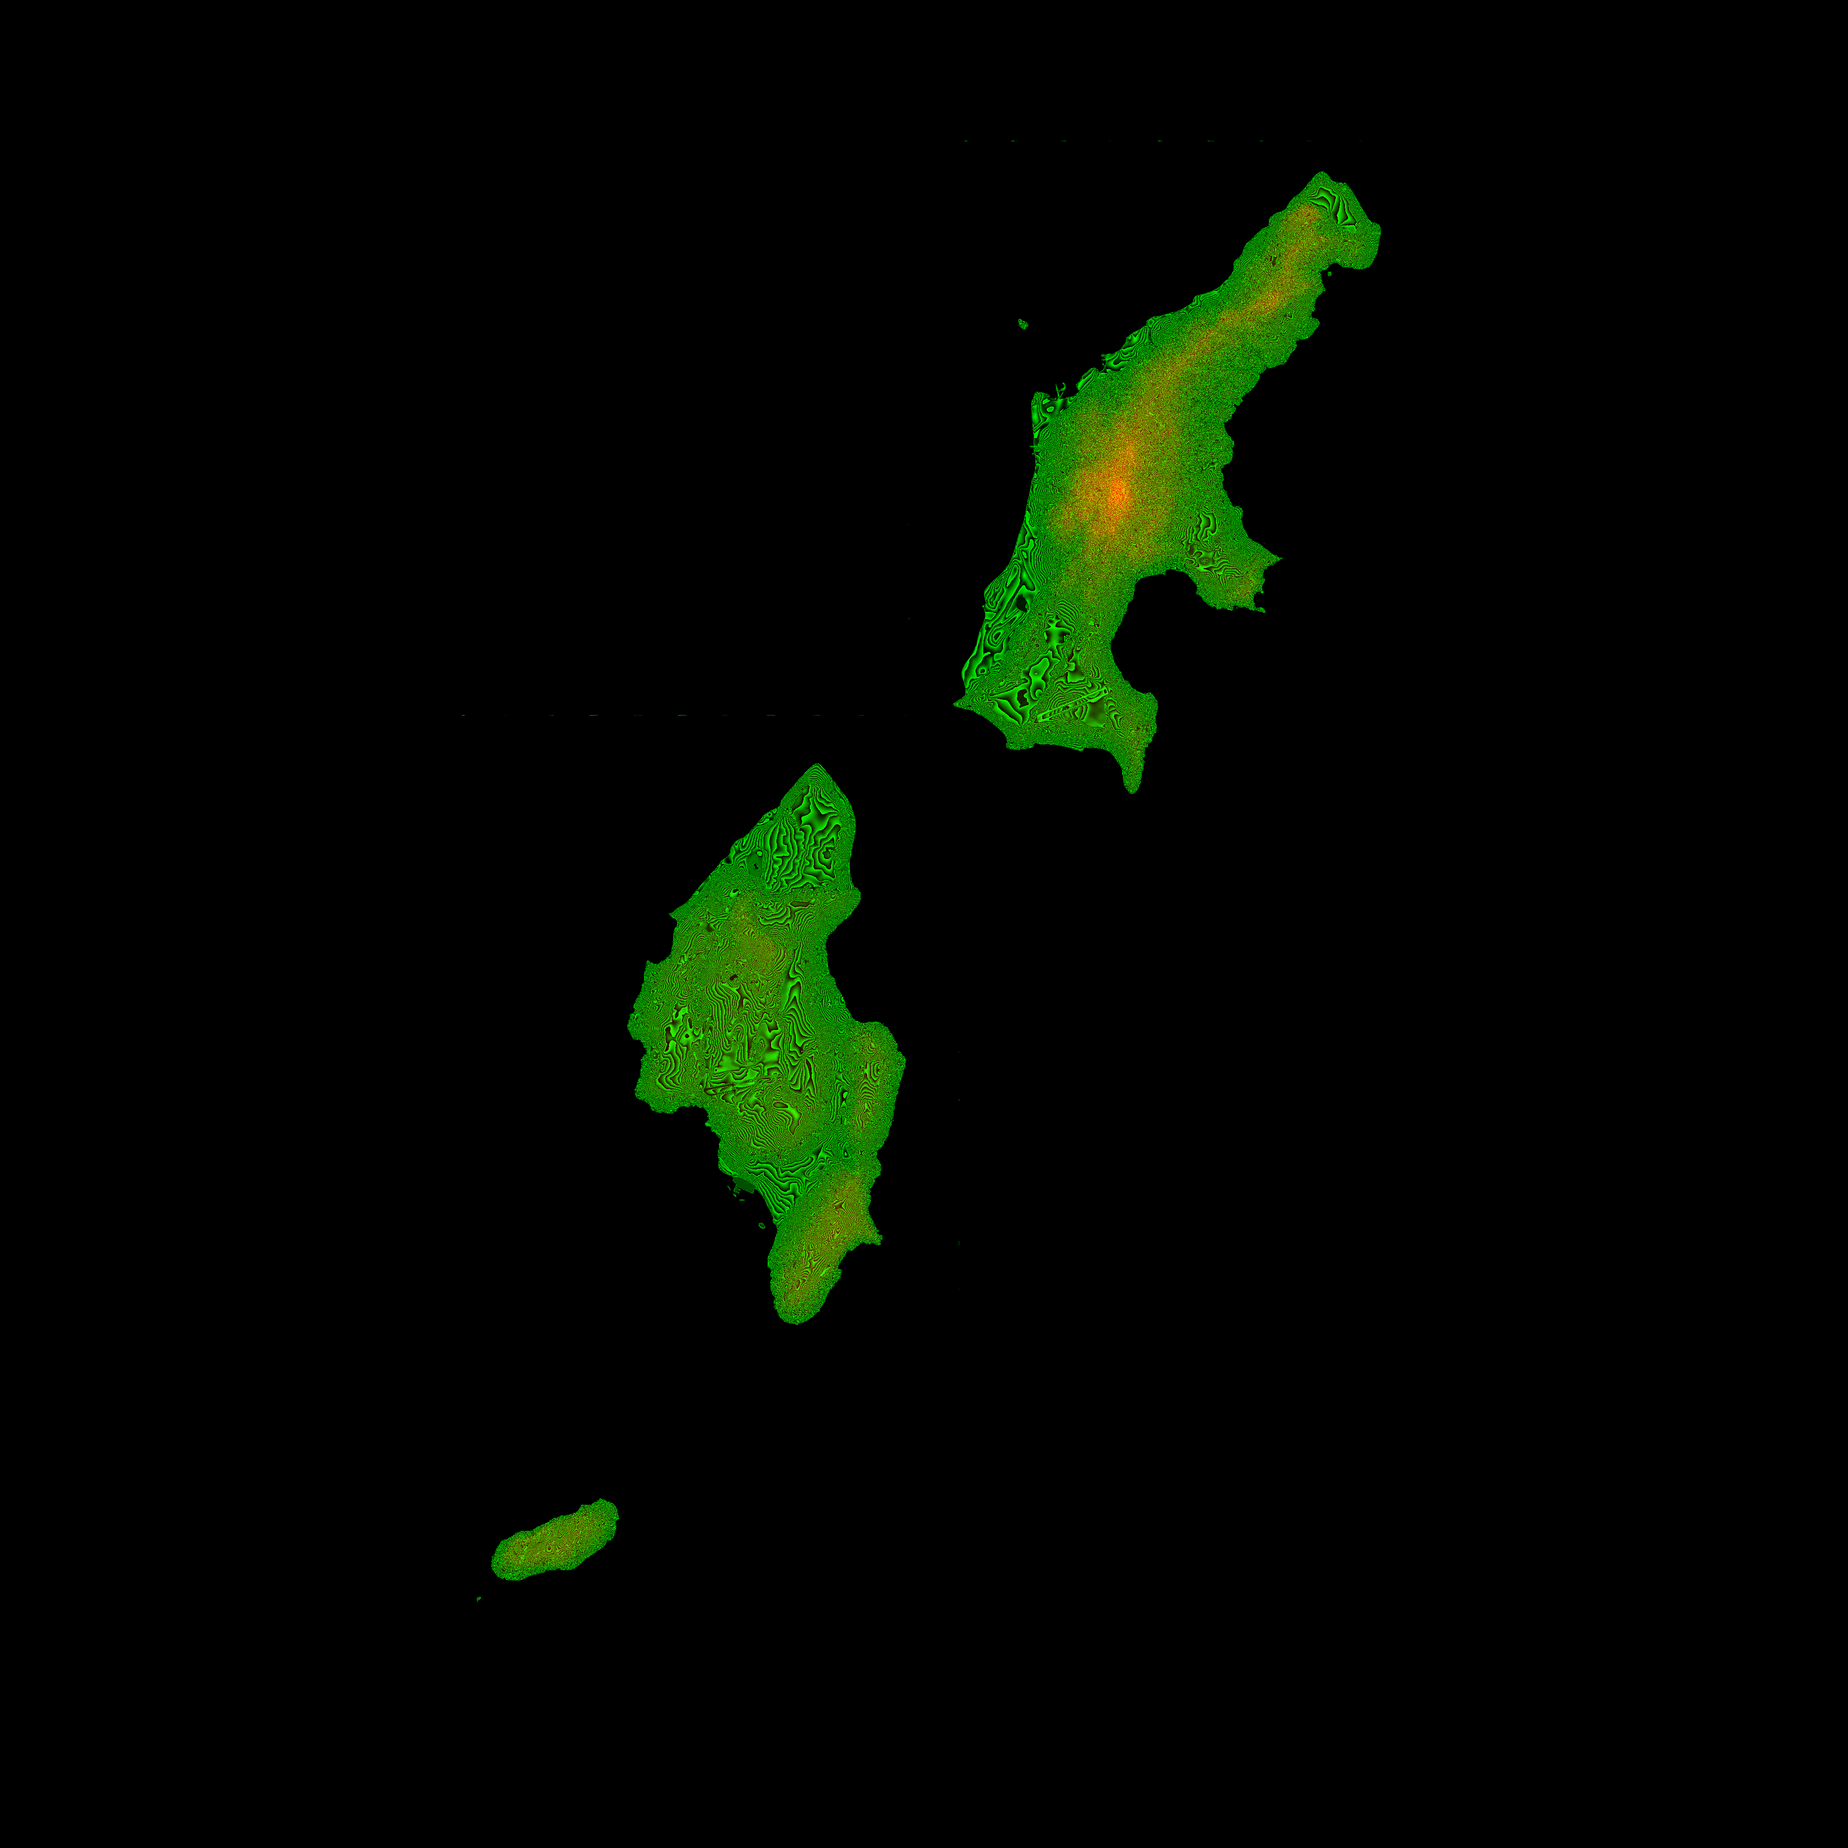
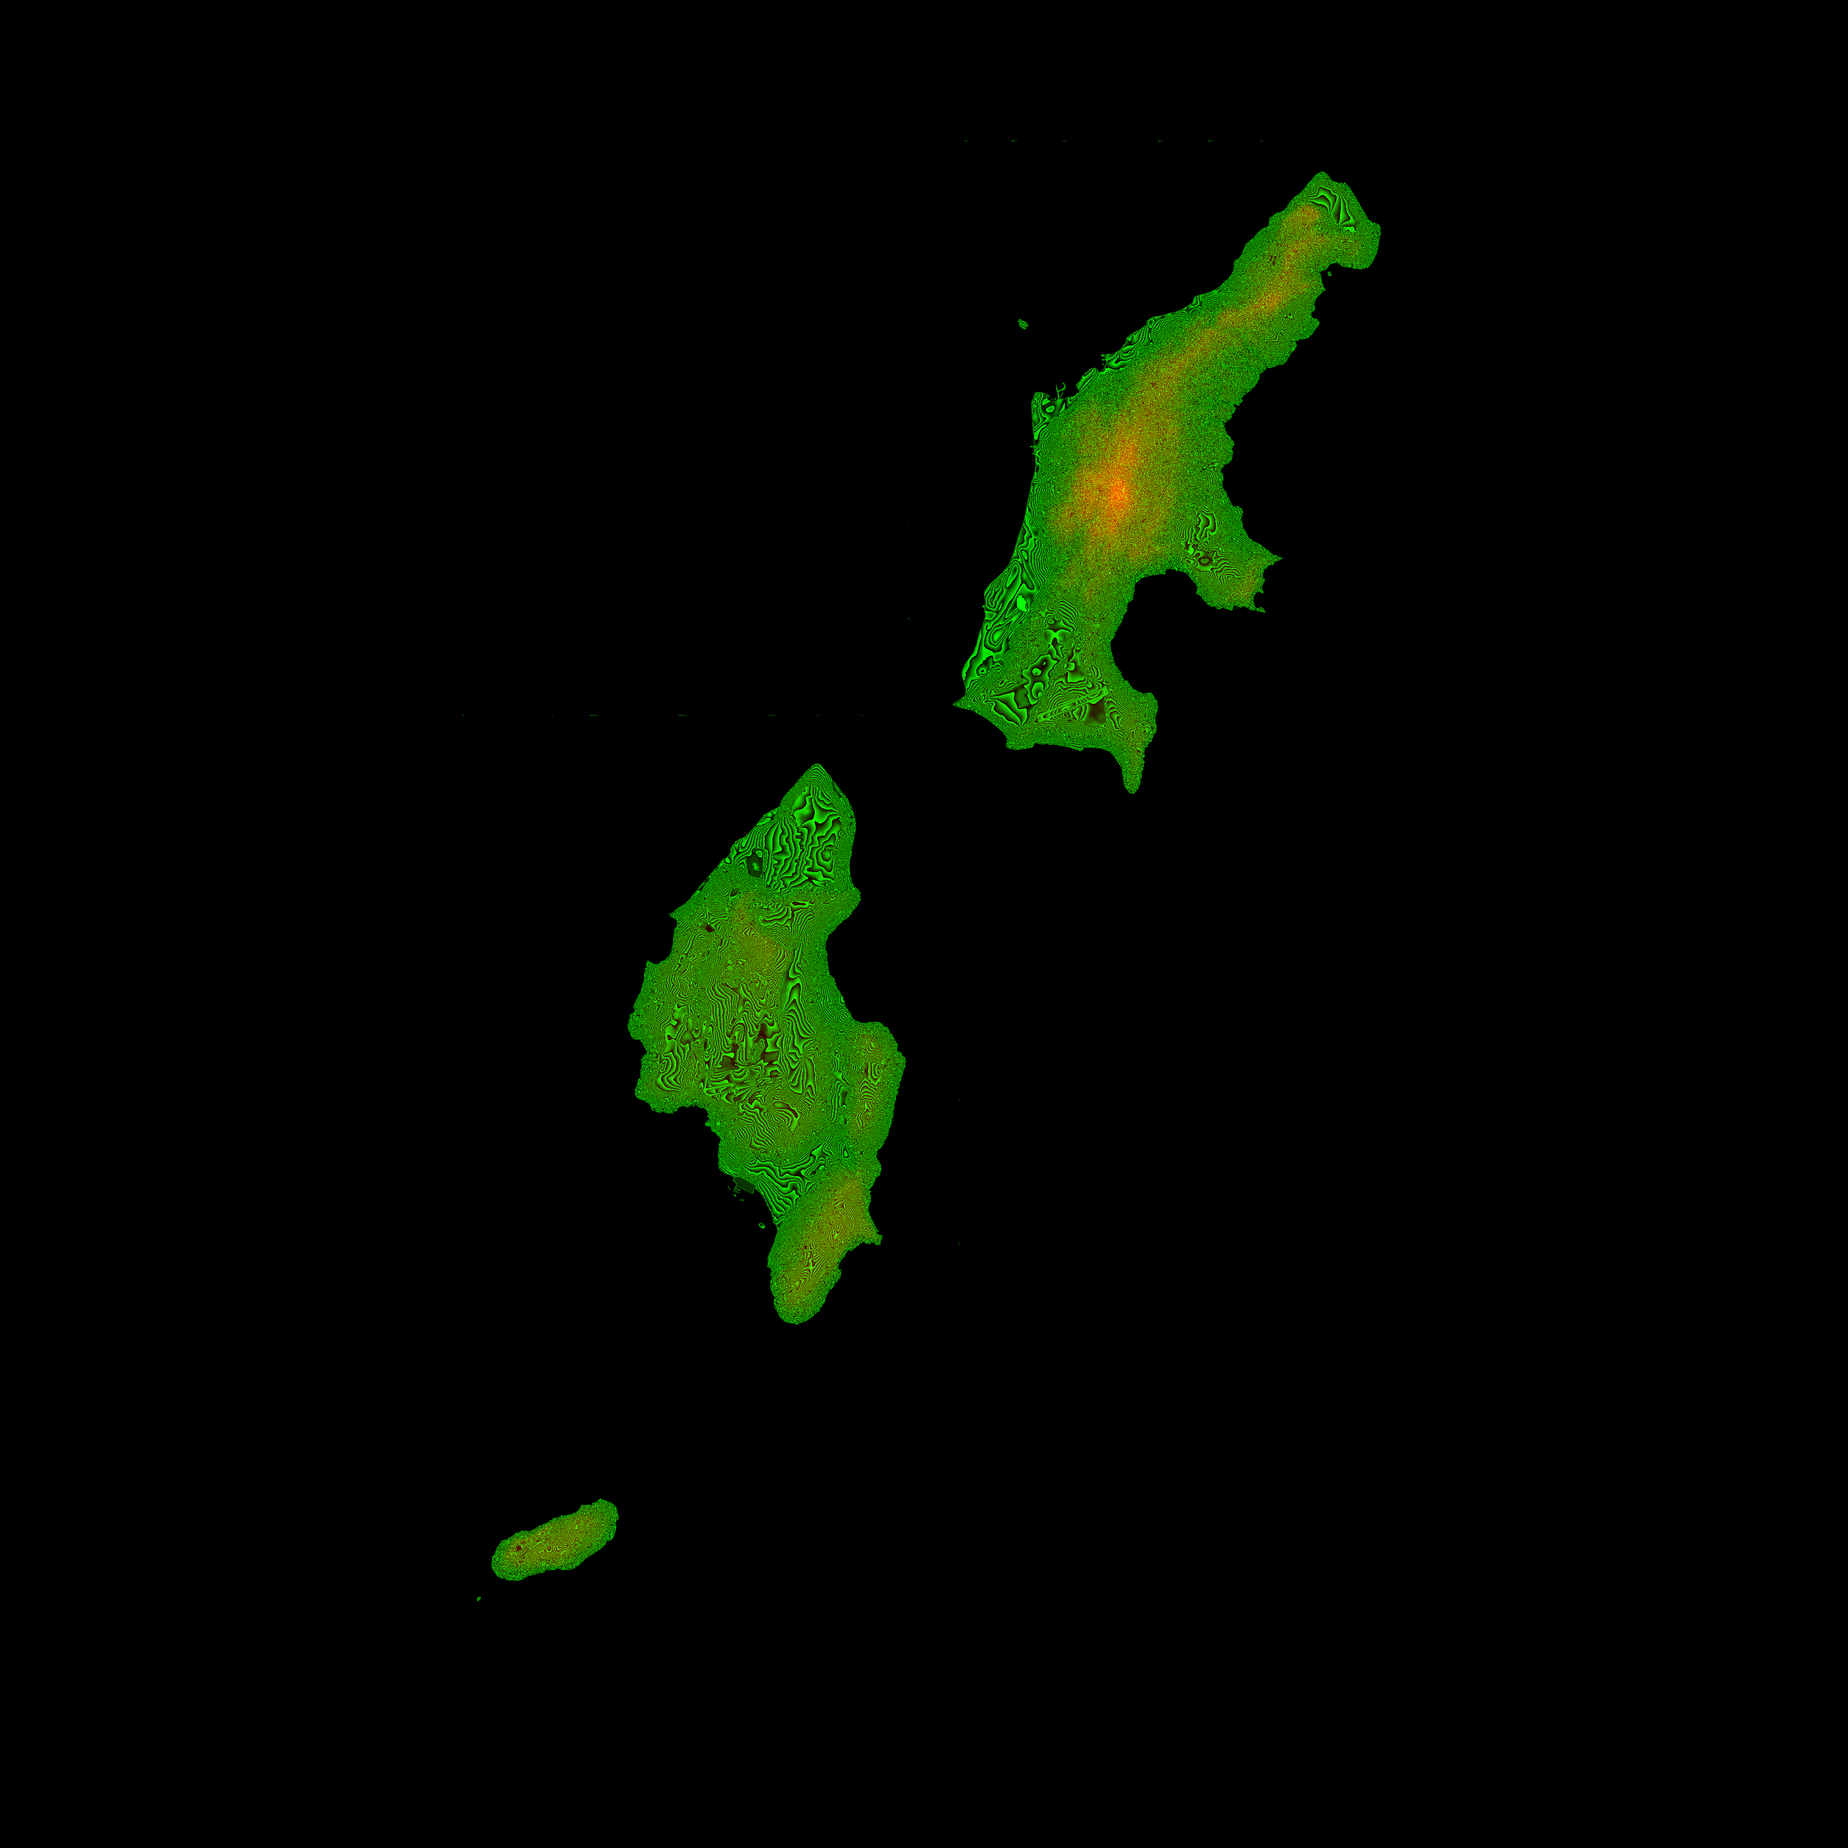
raptor: phase 4a — Gerstner water v1: 8-wave TSL sum w/ analytic normals, shore-distance depth proxy (chamfer field), per-front sea states, sea-floor bake rule (-15m + near-zero cells sink — reef/fjord z-fight fix), camera offset QA flags (t6 7/7; marianas reef verified by eye)

Changed region(s): [[0.5, 0.0938, 0.75, 0.4375], [0.3438, 0.4062, 0.5, 0.7188], [0.25, 0.8125, 0.3438, 0.875]]

diff --git a/raptor/src/world/water.js b/raptor/src/world/water.js
@@ -1,0 +1,140 @@
+// Water v1 — Gerstner-sum ocean in TSL (one material, both backends).
+// A camera-following snapped grid carries 8 summed Gerstner waves displaced
+// in the vertex shader with ANALYTIC normals; a flat far skirt reaches the
+// horizon. Standard-material shading means the sun light gives GGX glitter
+// and the sky IBL gives reflections for free. Depth is proxied by the
+// terrain's shore-distance field (bathymetry was clamped in the bake):
+// turquoise shallows + a foam band hug the coast; crest foam breaks on the
+// steepest wave sums. Render-side clock only — the sim never reads water.
+
+import * as THREE from "three";
+import {
+  Fn, uniform, texture, vec2, vec3, float, positionLocal, positionWorld,
+  modelWorldMatrix, vec4, normalize, clamp, smoothstep, mix, sin, cos, dot,
+  fract, floor,
+} from "three/tsl";
+
+const NEAR_SPAN = 32000, NEAR_VERTS = 384;
+const FAR_SPAN = 480000;
+
+// per-front sea states: [wavelengthM, amplitudeM, dirDeg] ×8
+// Amplitude discipline: the SUM of amplitudes is the worst-case crest.
+// Fjord chop tops out well under a meter; Pacific swell ~2.5m total.
+const SEA_STATES = {
+  VALDEZ: { // protected fjord water: short chop, wind-textured not mirror
+    waves: [
+      [42, 0.06, 335], [67, 0.09, 350], [95, 0.11, 320], [140, 0.14, 345],
+      [210, 0.16, 310], [320, 0.2, 330], [55, 0.06, 5], [170, 0.12, 300],
+    ],
+    deep: 0x0e2e33, shallow: 0x2e6b66, roughness: 0.2, foamShore: 45, normalK: 1.6,
+  },
+  MARIANAS: { // open Pacific swell breaking on the barrier reef
+    waves: [
+      [80, 0.14, 75], [130, 0.22, 60], [200, 0.3, 85], [310, 0.38, 70],
+      [470, 0.46, 55], [700, 0.52, 65], [100, 0.16, 100], [260, 0.28, 45],
+    ],
+    deep: 0x06334e, shallow: 0x2ba098, roughness: 0.14, foamShore: 110, normalK: 1.2,
+  },
+};
+
+export class Water {
+  constructor(front, terrain) {
+    const S = SEA_STATES[front] || SEA_STATES.MARIANAS;
+    this.state = S;
+    this.uTime = uniform(0);
+    this.terrainSize = terrain.size;
+    const shore = terrain.getShoreField();
+
+    // wave constants baked into the shader graph
+    const waves = S.waves.map(([L, A, degDir]) => {
+      const w = (2 * Math.PI) / L;
+      const c = Math.sqrt(9.81 / w); // deep-water dispersion
+      const rad = (degDir * Math.PI) / 180;
+      return { w, A, phi: w * c, dx: Math.sin(rad), dz: Math.cos(rad), Q: Math.min(0.55 / (w * A * S.waves.length), 1.2) };
+    });
+
+    const mat = new THREE.MeshStandardNodeMaterial({
+      roughness: S.roughness, metalness: 0.0, transparent: false,
+    });
+
+    const shoreUV = (wp) => vec2(
+      wp.x.div(this.terrainSize).add(0.5),
+      float(0.5).sub(wp.z.div(this.terrainSize))
+    );
+    const shoreDist = (wp) => texture(shore.tex, shoreUV(wp)).r.mul(shore.maxDist);
+
+    const gerstner = (wp) => {
+      let dispX = float(0), dispY = float(0), dispZ = float(0);
+      let nx = float(0), nz = float(0), nyAcc = float(0);
+      for (const { w, A, phi, dx, dz, Q } of waves) {
+        const theta = wp.x.mul(dx * w).add(wp.z.mul(dz * w)).add(this.uTime.mul(phi));
+        const s = sin(theta), c = cos(theta);
+        dispX = dispX.add(c.mul(Q * A * dx));
+        dispZ = dispZ.add(c.mul(Q * A * dz));
+        dispY = dispY.add(s.mul(A));
+        nx = nx.add(c.mul(dx * w * A));
+        nz = nz.add(c.mul(dz * w * A));
+        nyAcc = nyAcc.add(s.mul(Q * w * A));
+      }
+      return { dispX, dispY, dispZ, nx, nz, nyAcc };
+    };
+
+    mat.positionNode = Fn(() => {
+      const wp = modelWorldMatrix.mul(vec4(positionLocal, 1.0)).xyz;
+      const g = gerstner(wp);
+      // waves flatten right at the beach so foam sits on still water
+      const damp = smoothstep(0.0, 120.0, shoreDist(wp));
+      return vec3(
+        positionLocal.x.add(g.dispX.mul(damp)),
+        g.dispY.mul(damp),
+        positionLocal.z.add(g.dispZ.mul(damp))
+      );
+    })();
+
+    mat.normalNode = Fn(() => {
+      const wp = positionWorld;
+      const g = gerstner(wp);
+      const damp = smoothstep(0.0, 120.0, shoreDist(wp)).mul(S.normalK);
+      return normalize(vec3(g.nx.negate().mul(damp), float(1.0).sub(g.nyAcc.mul(damp).mul(0.8)), g.nz.negate().mul(damp)));
+    })();
+
+    const deepC = new THREE.Color(S.deep), shallowC = new THREE.Color(S.shallow);
+    mat.colorNode = Fn(() => {
+      const wp = positionWorld;
+      const sd = shoreDist(wp);
+      const g = gerstner(wp);
+      let c = mix(vec3(shallowC.r, shallowC.g, shallowC.b), vec3(deepC.r, deepC.g, deepC.b),
+                  smoothstep(20.0, 520.0, sd));
+      // shore foam band, broken up by a drifting hash; crest foam on steep sums
+      const hash = fract(sin(dot(floor(wp.xz.mul(0.15)), vec2(127.1, 311.7))).mul(43758.5453));
+      const shoreFoam = smoothstep(this.state.foamShore, 8.0, sd).mul(hash.mul(0.5).add(0.5));
+      const crest = smoothstep(0.55, 0.95, g.nyAcc).mul(0.6);
+      c = mix(c, vec3(0.92, 0.95, 0.96), clamp(shoreFoam.add(crest), 0.0, 0.85));
+      return c;
+    })();
+
+    // near animated sheet + flat far skirt to the horizon
+    this.mesh = new THREE.Mesh(
+      new THREE.PlaneGeometry(NEAR_SPAN, NEAR_SPAN, NEAR_VERTS - 1, NEAR_VERTS - 1).rotateX(-Math.PI / 2),
+      mat
+    );
+    this.mesh.frustumCulled = false;
+    this.far = new THREE.Mesh(
+      new THREE.PlaneGeometry(FAR_SPAN, FAR_SPAN, 1, 1).rotateX(-Math.PI / 2),
+      new THREE.MeshStandardMaterial({ color: S.deep, roughness: 0.25, metalness: 0 })
+    );
+    this.far.position.y = -0.4; // tucked under the animated sheet
+    this.group = new THREE.Group();
+    this.group.add(this.mesh, this.far);
+  }
+
+  // follow the camera in whole-quad snaps so the grid never swims
+  update(camera, timeSec) {
+    this.uTime.value = timeSec;
+    const quad = NEAR_SPAN / (NEAR_VERTS - 1);
+    this.mesh.position.x = Math.round(camera.position.x / quad) * quad;
+    this.mesh.position.z = Math.round(camera.position.z / quad) * quad;
+    this.far.position.x = camera.position.x;
+    this.far.position.z = camera.position.z;
+  }
+}

diff --git a/raptor/src/main.js b/raptor/src/main.js
@@ -10,6 +10,7 @@ import { TestWorld } from "./game/testworld.js";
 import { ControlsMenu } from "./game/controlsmenu.js";
 import { Atmosphere } from "./world/daycycle.js";
 import { Terrain } from "./world/terrain.js";
+import { Water } from "./world/water.js";
 
 const VERSION = "0.4.0";
 const PHASE = 3;
@@ -80,7 +81,7 @@ async function boot() {
     VALDEZ: { asset: "valdez", ocean: true, baseAlt: 2800, label: "PRINCE WILLIAM SOUND" },
     MARIANAS: { asset: "marianas", ocean: true, baseAlt: 1400, label: "THE MARIANAS" },
   };
-  let terrain = null;
+  let terrain = null, water = null;
   const fg = FRONT_GROUND[atmosphere.frontName];
   if (fg && flags.get("noterrain") !== "1") {
     const vs = document.querySelector("#veil .status");
@@ -88,7 +89,16 @@ async function boot() {
     try {
       terrain = await Terrain.load("/assets/terrain/" + fg.asset, atmosphere.frontName);
       scene.add(terrain.group);
-      world.setGround(terrain, fg);
+      if (fg.ocean) {
+        try {
+          water = new Water(atmosphere.frontName, terrain);
+          scene.add(water.group);
+        } catch (err) {
+          console.warn("water unavailable, placeholder sea stays:", err && err.message);
+        }
+      }
+      // the placeholder sea survives only if the real water failed
+      world.setGround(terrain, { ...fg, ocean: fg.ocean && !water });
     } catch (err) {
       console.warn("terrain unavailable, flying over water:", err && err.message);
     }
@@ -108,7 +118,7 @@ async function boot() {
 
   // public hooks (QA + future phases)
   Object.assign(state, {
-    sim, input, gamepad, controls, dbg, atmosphere, terrain,
+    sim, input, gamepad, controls, dbg, atmosphere, terrain, water,
     setTimeOfDay: (h) => atmosphere.setTime(h),
     setFront: (f) => atmosphere.setFront(String(f).toUpperCase()),
     hash: () => sim.stateHash(),
@@ -128,6 +138,7 @@ async function boot() {
 
   let last = performance.now();
   let firstFrame = true;
+  let waterClock = 0; // render-side only — the sim never reads water
   function frame(now) {
     requestAnimationFrame(frame);
     const dtMs = Math.min(now - last, 250);
@@ -155,6 +166,8 @@ async function boot() {
     const alpha = sim.advance(dtMs / 1000);
     world.render(alpha, camera);
     terrain?.update(camera);
+    waterClock += dtMs / 1000;
+    water?.update(camera, waterClock);
     atmosphere.update(camera);
     renderer.toneMappingExposure = atmosphere.exposure;
     renderer.render(scene, camera);

diff --git a/raptor/src/world/terrain.js b/raptor/src/world/terrain.js
@@ -309,6 +309,50 @@ export class Terrain {
     this.stats = { nodes: n, minLevel: minL, maxLevel: maxL, overflow: out.length - n };
   }
 
+  // Shore-distance field (meters from land, sea cells only) — the bake clamps
+  // bathymetry to 0, so water depth is proxied by distance-to-shore. 1024²
+  // two-pass chamfer transform (~50ms), lazily built, uploaded as a texture.
+  getShoreField() {
+    if (this._shore) return this._shore;
+    const N = 1024, g = this.meta.grid, step = this.size / N;
+    const d = new Float32Array(N * N);
+    const stride = g / N;
+    const BIG = 1e9;
+    for (let j = 0; j < N; j++)
+      for (let i = 0; i < N; i++)
+        d[j * N + i] = this.heights[Math.floor(j * stride) * g + Math.floor(i * stride)] > 0.5 ? 0 : BIG;
+    const D1 = step, D2 = step * 1.4142;
+    for (let j = 0; j < N; j++)         // forward pass
+      for (let i = 0; i < N; i++) {
+        const k = j * N + i;
+        if (i > 0) d[k] = Math.min(d[k], d[k - 1] + D1);
+        if (j > 0) {
+          d[k] = Math.min(d[k], d[k - N] + D1);
+          if (i > 0) d[k] = Math.min(d[k], d[k - N - 1] + D2);
+          if (i < N - 1) d[k] = Math.min(d[k], d[k - N + 1] + D2);
+        }
+      }
+    for (let j = N - 1; j >= 0; j--)    // backward pass
+      for (let i = N - 1; i >= 0; i--) {
+        const k = j * N + i;
+        if (i < N - 1) d[k] = Math.min(d[k], d[k + 1] + D1);
+        if (j < N - 1) {
+          d[k] = Math.min(d[k], d[k + N] + D1);
+          if (i < N - 1) d[k] = Math.min(d[k], d[k + N + 1] + D2);
+          if (i > 0) d[k] = Math.min(d[k], d[k + N - 1] + D2);
+        }
+      }
+    const MAXD = 1400;
+    const bytes = new Uint8Array(N * N);
+    for (let k = 0; k < d.length; k++) bytes[k] = Math.min(d[k] / MAXD, 1) * 255;
+    const tex = new THREE.DataTexture(bytes, N, N, THREE.RedFormat, THREE.UnsignedByteType);
+    tex.wrapS = tex.wrapT = THREE.ClampToEdgeWrapping;
+    tex.minFilter = tex.magFilter = THREE.LinearFilter;
+    tex.needsUpdate = true;
+    this._shore = { tex, maxDist: MAXD };
+    return this._shore;
+  }
+
   // bilinear height at world x (east) / z (north); origin = AOI center
   heightAt(x, z) {
     const g = this.meta.grid, half = this.size / 2;

diff --git a/raptor/src/game/testworld.js b/raptor/src/game/testworld.js
@@ -71,6 +71,9 @@ export class TestWorld {
     const q = new URLSearchParams(location.search);
     this.pitchBias = parseFloat(q.get("pitch") || "0") * Math.PI / 180;
     this.fixYaw = q.has("yaw") ? parseFloat(q.get("yaw")) * Math.PI / 180 : null;
+    this.camX = parseFloat(q.get("camx") || "0");
+    this.camZ = parseFloat(q.get("camz") || "0");
+    this.camH = q.has("camh") ? parseFloat(q.get("camh")) : null;
   }
 
   // terrain arrived: sea stays only on ocean fronts (y=0 = real sea level),
@@ -148,11 +151,13 @@ export class TestWorld {
     this.trailMesh.instanceMatrix.needsUpdate = true;
 
     if (this.fixYaw !== null) {
-      // parked camera: +X east, +Z north; terrain-aware altitude (a fixed
-      // 900m sat UNDERGROUND in the 1266m Nevada basin)
-      const camY = (this.terrain ? this.terrain.heightAt(0, 0) : 0) + 600;
-      camera.position.set(0, camY, 0);
-      camera.lookAt(Math.sin(this.fixYaw) * 1000, camY + Math.tan(this.pitchBias) * 1000, Math.cos(this.fixYaw) * 1000);
+      // parked camera: +X east, +Z north; terrain-aware altitude, offsettable
+      // via ?camx/?camz (meters from AOI center) and ?camh (height AGL)
+      const gx = this.camX, gz = this.camZ;
+      const ground = Math.max(this.terrain ? this.terrain.heightAt(gx, gz) : 0, 0);
+      const camY = ground + (this.camH ?? 600);
+      camera.position.set(gx, camY, gz);
+      camera.lookAt(gx + Math.sin(this.fixYaw) * 1000, camY + Math.tan(this.pitchBias) * 1000, gz + Math.cos(this.fixYaw) * 1000);
       return;
     }
     // chase camera, behind along heading

diff --git a/raptor/bakery/bake_terrain.py b/raptor/bakery/bake_terrain.py
@@ -91,14 +91,19 @@ def main():
     uncovered = int((~np.isfinite(hgt)).sum())
     if uncovered:
         frac = uncovered / hgt.size
-        fill = 0.0 if sea else float(np.nanmedian(hgt))
-        kind = "sea level (0m)" if sea else f"median {fill:.0f}m"
+        # ocean cells sit at -15m — BELOW any wave trough, or the seafloor
+        # z-fights up through the animated surface (learned the hard way)
+        fill = -15.0 if sea else float(np.nanmedian(hgt))
+        kind = "sea floor (-15m)" if sea else f"median {fill:.0f}m"
         print(f"nodata/uncovered: {uncovered} px ({frac*100:.1f}%) -> {kind}")
         if frac > 0.02 and not sea:
             sys.exit("more than 2% uncovered on a land bake — check tile set / AOI")
         hgt = np.where(np.isfinite(hgt), hgt, fill)
     if sea:
-        hgt = np.maximum(hgt, 0.0)  # bathymetry-below-zero clamps to sea level
+        # some tiles chart the water SURFACE near 0m (Alaska fjords) — those
+        # cells must also sink to the floor or wave troughs expose them
+        hgt = np.where(hgt < 0.4, -15.0, hgt)
+        hgt = np.maximum(hgt, -15.0)
 
     mn, mx = float(hgt.min()), float(hgt.max())
     print(f"heights {mn:.1f}..{mx:.1f} m over {size_km:.1f} km ({size_m/grid:.1f} m/px)")
